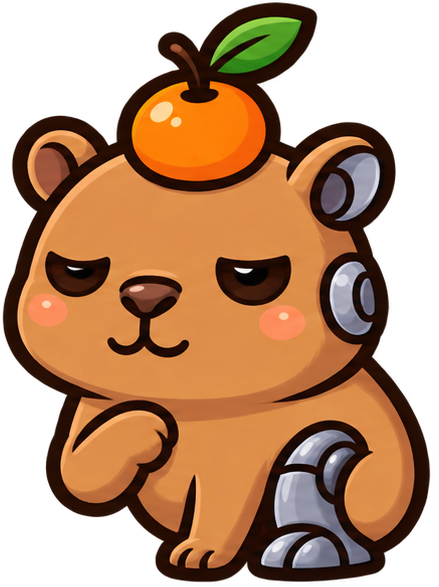
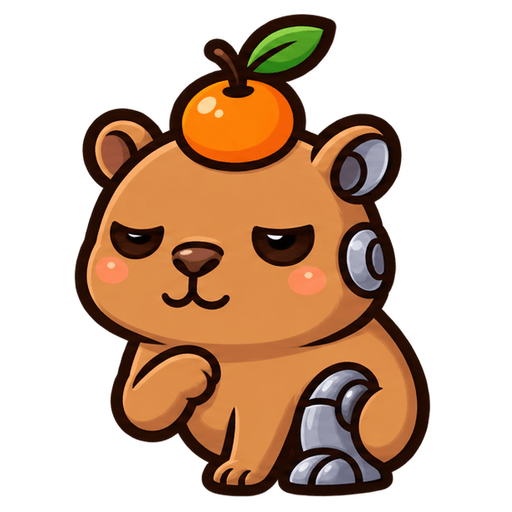
Animate Cybara thinking with the five-pose sequence
The thinking mark behind the sidebar logo, the pet, and the pet overlay
now plays the five poses from the new artwork in the ping-pong timing of
the reference GIF: a 200ms start, 100ms in-betweens, and 500ms holds on
the paw-at-chin pose and on the return to eyes open, 1.8s per loop.

The stills were tightly cropped onto different non-square canvases, so
they are registered against the reference GIF and placed on one shared
512px square canvas whose resting pose matches the logo's visible height
and center, which keeps the mascot from jittering between steps. Each
frame is palette-compressed to about 73KB and preloaded when the app
starts so the first run shows no blank frame. Reduced motion shows the
resting pose. The old two-frame image is removed.

diff --git a/tests/ui/sidebar-status-indicator.test.ts b/tests/ui/sidebar-status-indicator.test.ts
@@ -14,8 +14,8 @@ const sidebarAgentStatusPath = fileURLToPath(
   new URL("../../ui/src/components/layout/useSidebarAgentStatus.ts", import.meta.url)
 );
 const logoPath = fileURLToPath(new URL("../../ui/public/cybara.png", import.meta.url));
-const thinkingLogoPath = fileURLToPath(
-  new URL("../../ui/public/cybara-thinking.png", import.meta.url)
+const thinkingPosePaths = [1, 2, 3, 4, 5].map((pose) =>
+  fileURLToPath(new URL(`../../ui/public/cybara-thinking-${pose}.png`, import.meta.url))
 );
 
 function readSidebarSource(): string {
@@ -64,7 +64,7 @@ describe("Sidebar status indicator behavior", () => {
     expect(statusHook).not.toContain("pruneInactiveSessions");
   });
 
-  test("renders the shared two-frame thinking mark instead of a halo ring", () => {
+  test("renders the shared five-pose thinking mark instead of a halo ring", () => {
     const source = readSidebarSource();
     const mark = readFileSync(
       fileURLToPath(new URL("../../ui/src/components/CybaraThinkingMark.tsx", import.meta.url)),
@@ -77,8 +77,12 @@ describe("Sidebar status indicator behavior", () => {
     expect(source).toContain('src="/cybara.png"');
     expect(source).toContain('status === "active" && "opacity-0"');
     expect(source).toContain("<CybaraThinkingMark />");
-    expect(mark).toContain('from "../../public/cybara.png"');
-    expect(mark).toContain('from "../../public/cybara-thinking.png"');
+    for (const pose of [1, 2, 3, 4, 5]) {
+      expect(mark).toContain(`from "../../public/cybara-thinking-${pose}.png"`);
+      expect(css).toContain(`.cybara-thinking-mark-pose-${pose}`);
+      expect(css).toContain(`@keyframes cybara-thinking-pose-${pose}`);
+    }
+    expect(css).toContain("animation-duration: 1.8s");
     expect(css).toContain(".cybara-thinking-mark");
     expect(css).not.toContain(".gif");
     expect(css).toContain("inset: 0");
@@ -90,9 +94,9 @@ describe("Sidebar status indicator behavior", () => {
     expect(css).not.toContain('url("/cybara-thinking-sprite.png")');
   });
 
-  test("thinking frames use square canvases and matching visible proportions", () => {
+  test("thinking poses share the logo's square canvas and registration", () => {
     const logo = PNG.sync.read(readFileSync(logoPath));
-    const thinking = PNG.sync.read(readFileSync(thinkingLogoPath));
+    const poses = thinkingPosePaths.map((path) => PNG.sync.read(readFileSync(path)));
     const visibleBounds = (
       png: PNG
     ): { top: number; bottom: number; height: number; center: number } => {
@@ -115,14 +119,22 @@ describe("Sidebar status indicator behavior", () => {
     };
 
     expect(logo.width).toBe(logo.height);
-    expect(thinking.width).toBe(thinking.height);
     const logoBounds = visibleBounds(logo);
-    const thinkingBounds = visibleBounds(thinking);
     const logoHeightRatio = logoBounds.height / logo.height;
-    const thinkingHeightRatio = thinkingBounds.height / thinking.height;
     const logoCenterRatio = logoBounds.center / logo.height;
-    const thinkingCenterRatio = thinkingBounds.center / thinking.height;
-    expect(Math.abs(thinkingHeightRatio - logoHeightRatio)).toBeLessThanOrEqual(0.01);
-    expect(Math.abs(thinkingCenterRatio - logoCenterRatio)).toBeLessThanOrEqual(0.01);
+    for (const pose of poses) {
+      expect(pose.width).toBe(pose.height);
+      expect(pose.width).toBe(poses[0].width);
+      const bounds = visibleBounds(pose);
+      expect(Math.abs(bounds.height / pose.height - logoHeightRatio)).toBeLessThanOrEqual(0.02);
+      expect(Math.abs(bounds.center / pose.height - logoCenterRatio)).toBeLessThanOrEqual(0.02);
+    }
+    const restingBounds = visibleBounds(poses[0]);
+    expect(Math.abs(restingBounds.height / poses[0].height - logoHeightRatio)).toBeLessThanOrEqual(
+      0.01
+    );
+    expect(Math.abs(restingBounds.center / poses[0].height - logoCenterRatio)).toBeLessThanOrEqual(
+      0.01
+    );
   });
 });

diff --git a/ui/src/styles/index-light.css b/ui/src/styles/index-light.css
@@ -376,27 +376,86 @@ html.light .hover\:bg-\[\#1c202a\]:hover,
 html.light .hover\:bg-\[\#202633\]:hover,
 html.light .hover\:bg-\[\#242733\]:hover { background-color: var(--surface-hover); }
 
-@keyframes cybara-thinking-awake {
-  0%,
-  49.999%,
+@keyframes cybara-thinking-pose-1 {
+  0% {
+    opacity: 1;
+  }
+  11.111% {
+    opacity: 0;
+  }
+  72.222%,
   100% {
     opacity: 1;
   }
-  50%,
-  99.999% {
+}
+
+@keyframes cybara-thinking-pose-2 {
+  0% {
+    opacity: 0;
+  }
+  11.111% {
+    opacity: 1;
+  }
+  16.667% {
+    opacity: 0;
+  }
+  66.667% {
+    opacity: 1;
+  }
+  72.222%,
+  100% {
     opacity: 0;
   }
 }
 
-@keyframes cybara-thinking-resting {
-  0%,
-  49.999%,
+@keyframes cybara-thinking-pose-3 {
+  0% {
+    opacity: 0;
+  }
+  16.667% {
+    opacity: 1;
+  }
+  22.222% {
+    opacity: 0;
+  }
+  61.111% {
+    opacity: 1;
+  }
+  66.667%,
   100% {
     opacity: 0;
   }
-  50%,
-  99.999% {
+}
+
+@keyframes cybara-thinking-pose-4 {
+  0% {
+    opacity: 0;
+  }
+  22.222% {
     opacity: 1;
+  }
+  27.778% {
+    opacity: 0;
+  }
+  55.556% {
+    opacity: 1;
+  }
+  61.111%,
+  100% {
+    opacity: 0;
+  }
+}
+
+@keyframes cybara-thinking-pose-5 {
+  0% {
+    opacity: 0;
+  }
+  27.778% {
+    opacity: 1;
+  }
+  55.556%,
+  100% {
+    opacity: 0;
   }
 }
 
@@ -415,24 +474,36 @@ html.light .hover\:bg-\[\#242733\]:hover { background-color: var(--surface-hover
   height: 100%;
   object-fit: contain;
   user-select: none;
+  opacity: 0;
+  animation-duration: 1.8s;
+  animation-timing-function: steps(1, end);
+  animation-iteration-count: infinite;
 }
 
-.cybara-thinking-mark-awake {
-  animation: cybara-thinking-awake 1.2s steps(1, end) infinite;
+.cybara-thinking-mark-pose-1 {
+  opacity: 1;
+  animation-name: cybara-thinking-pose-1;
 }
 
-.cybara-thinking-mark-resting {
-  animation: cybara-thinking-resting 1.2s steps(1, end) infinite;
+.cybara-thinking-mark-pose-2 {
+  animation-name: cybara-thinking-pose-2;
+}
+
+.cybara-thinking-mark-pose-3 {
+  animation-name: cybara-thinking-pose-3;
+}
+
+.cybara-thinking-mark-pose-4 {
+  animation-name: cybara-thinking-pose-4;
+}
+
+.cybara-thinking-mark-pose-5 {
+  animation-name: cybara-thinking-pose-5;
 }
 
 @media (prefers-reduced-motion: reduce) {
-  .cybara-thinking-mark-awake,
-  .cybara-thinking-mark-resting {
+  .cybara-thinking-mark-frame {
     animation: none;
-  }
-
-  .cybara-thinking-mark-resting {
-    opacity: 0;
   }
 }
 

diff --git a/ui/src/components/CybaraThinkingMark.tsx b/ui/src/components/CybaraThinkingMark.tsx
@@ -1,21 +1,41 @@
-import cybaraLogoUrl from "../../public/cybara.png";
-import cybaraThinkingUrl from "../../public/cybara-thinking.png";
+import thinkingPose1Url from "../../public/cybara-thinking-1.png";
+import thinkingPose2Url from "../../public/cybara-thinking-2.png";
+import thinkingPose3Url from "../../public/cybara-thinking-3.png";
+import thinkingPose4Url from "../../public/cybara-thinking-4.png";
+import thinkingPose5Url from "../../public/cybara-thinking-5.png";
+
+const THINKING_POSES = [
+  thinkingPose1Url,
+  thinkingPose2Url,
+  thinkingPose3Url,
+  thinkingPose4Url,
+  thinkingPose5Url,
+];
+
+function preloadThinkingPoses(): void {
+  if (typeof Image === "undefined") return;
+  for (const source of THINKING_POSES) {
+    const image = new Image();
+    image.decoding = "async";
+    image.src = source;
+  }
+}
+
+preloadThinkingPoses();
 
 export function CybaraThinkingMark() {
   return (
     <span className="cybara-thinking-mark" aria-hidden="true">
-      <img
-        src={cybaraLogoUrl}
-        alt=""
-        draggable={false}
-        className="cybara-thinking-mark-frame cybara-thinking-mark-awake"
-      />
-      <img
-        src={cybaraThinkingUrl}
-        alt=""
-        draggable={false}
-        className="cybara-thinking-mark-frame cybara-thinking-mark-resting"
-      />
+      {THINKING_POSES.map((source, index) => (
+        <img
+          key={source}
+          src={source}
+          alt=""
+          draggable={false}
+          decoding="async"
+          className={`cybara-thinking-mark-frame cybara-thinking-mark-pose-${index + 1}`}
+        />
+      ))}
     </span>
   );
 }
